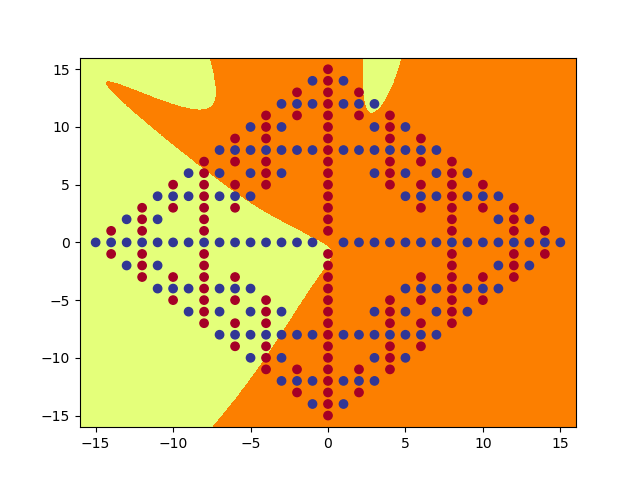
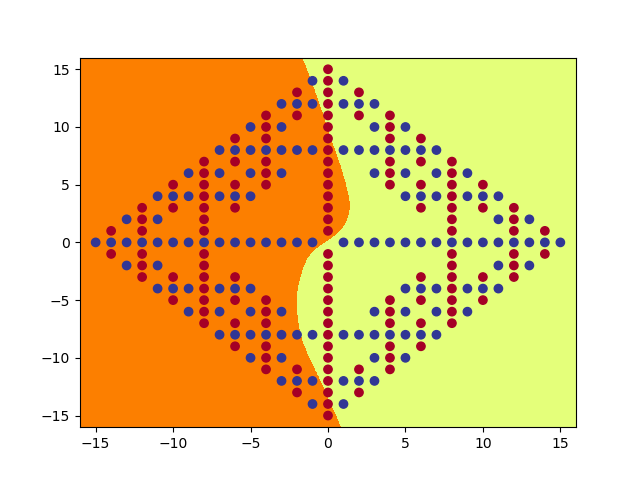
Dense net works for p2q3

diff --git a/frac.py b/frac.py
@@ -17,6 +17,7 @@ class Full2Net(torch.nn.Module):
         self._layer2 = nn.Linear(hid,hid)
         self._layer_output = nn.Linear(hid,1)
 
+
     def forward(self, input):
 
         self.hid1 = torch.tanh(self._layer1(input))
@@ -41,18 +42,26 @@ class Full3Net(torch.nn.Module):
         input = torch.sigmoid(self._layer_output(self.hid3))
         return input[:,0].view(-1,1)
 
+
+# Reached 100 with python frac_main.py --net dense --hid 15 --init 0.35
 class DenseNet(torch.nn.Module):
     def __init__(self, hid):
         super(DenseNet, self).__init__()
         self._layer1 = nn.Linear(2,hid)
-        self._layer2 = nn.Linear(hid,hid)
-        self._layer_output = nn.Linear(hid,1)
+        self._layer2 = nn.Linear(2+ hid,hid)
+        self._layer_output = nn.Linear(2 + hid + hid,1)
 
     def forward(self, input):
+        # print("INPUT:", input.size())
         self.hid1 = torch.tanh(self._layer1(input))
-        self.hid2 = torch.tanh(torch.cat(   self._layer2(input),\
-                                            self._layer2(self.hid1),dim=1))
-        input = torch.sigmoid(torch.cat(    self._layer_output(input),\
-                                            self._layer_output(self.hid1),\
-                                            self._layer_output(self.hid2), dim=1))
-        return input[:,0].view(-1,1)
+        # print("HID 1:", self.hid1.size())
+        input2 = torch.cat((input,self.hid1),dim=1)
+        # print("INPUT 2:", input2.size())
+        self.hid2 = torch.tanh(self._layer2(input2))
+        # print("HID 2", self.hid2.size())
+        input3 = torch.cat((input,self.hid1, self.hid2),dim=1)
+        # print("INPUT 3:", input3.size())
+        output = torch.sigmoid(self._layer_output(input3))
+        # print("OUTPUT:", output.size())
+        return output[:,0].view(-1,1)
+        
